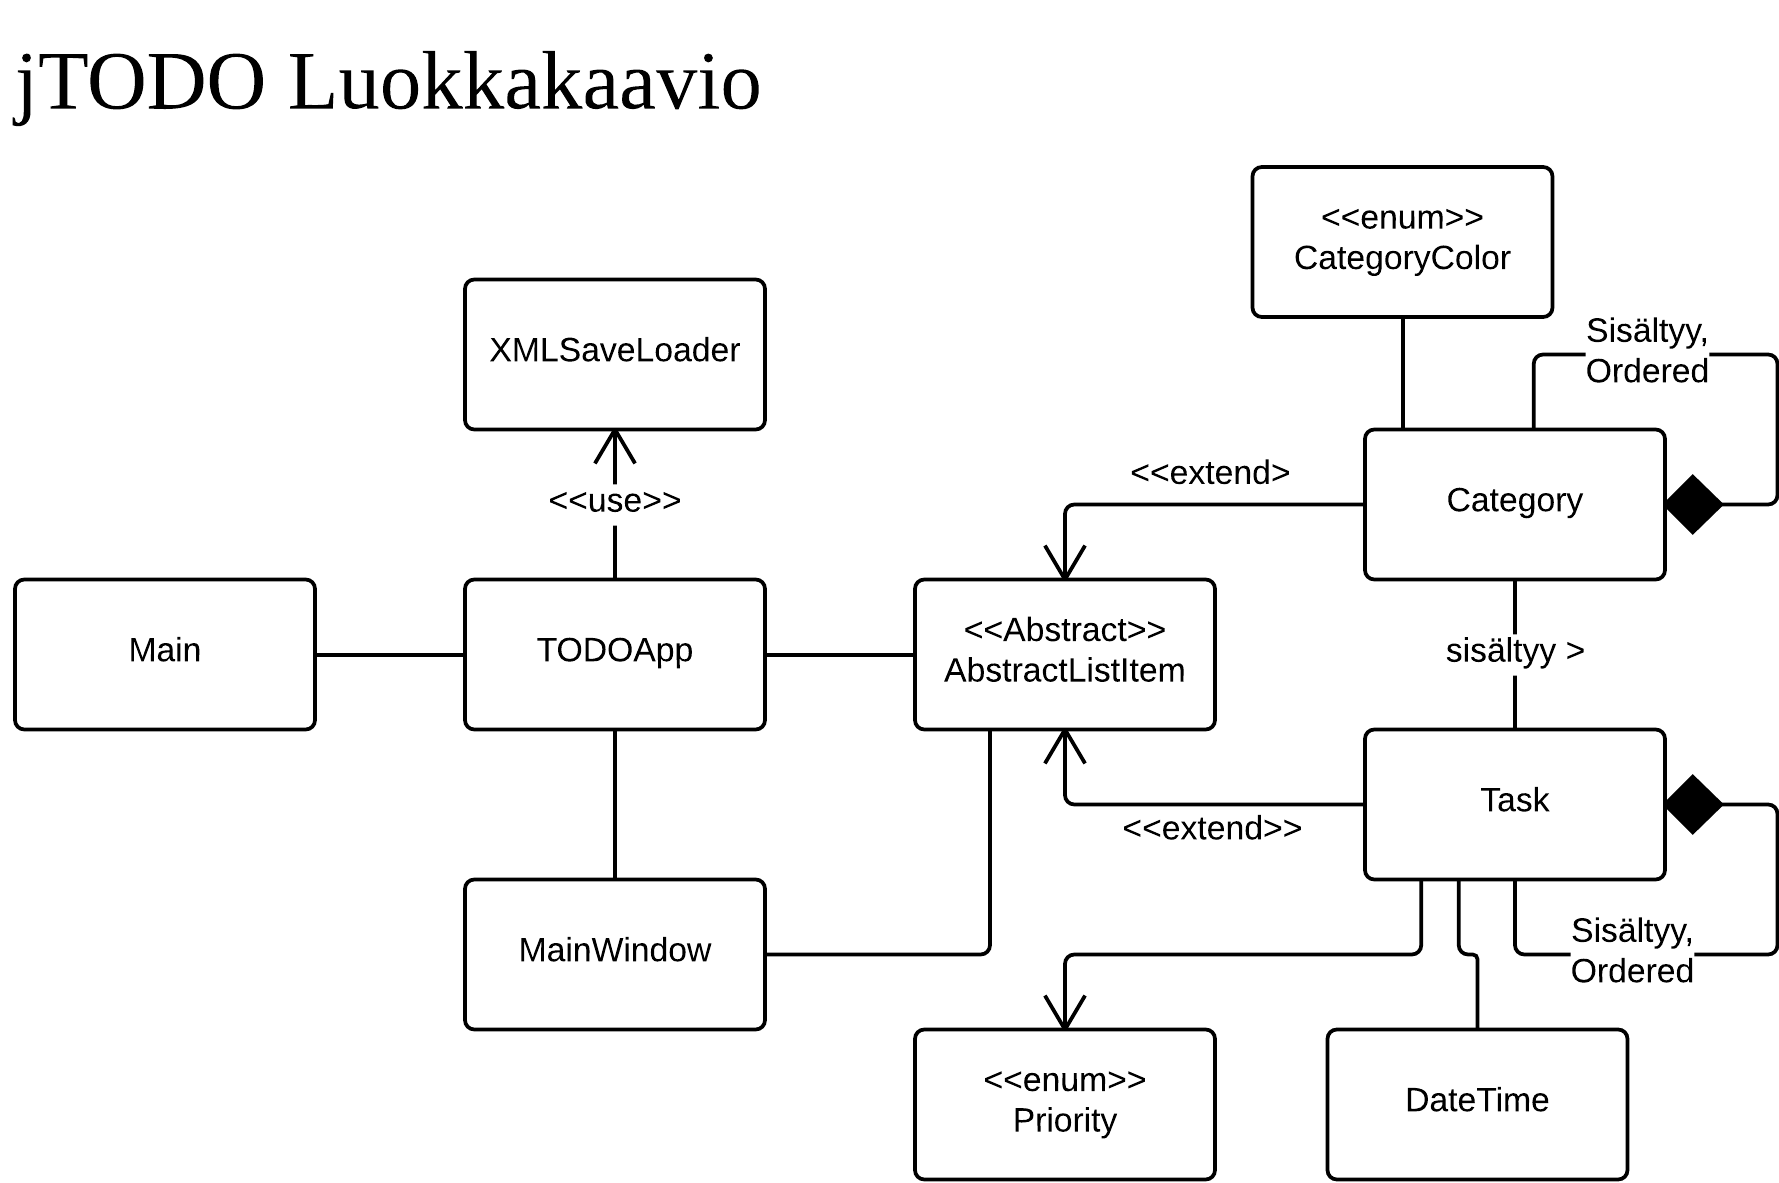
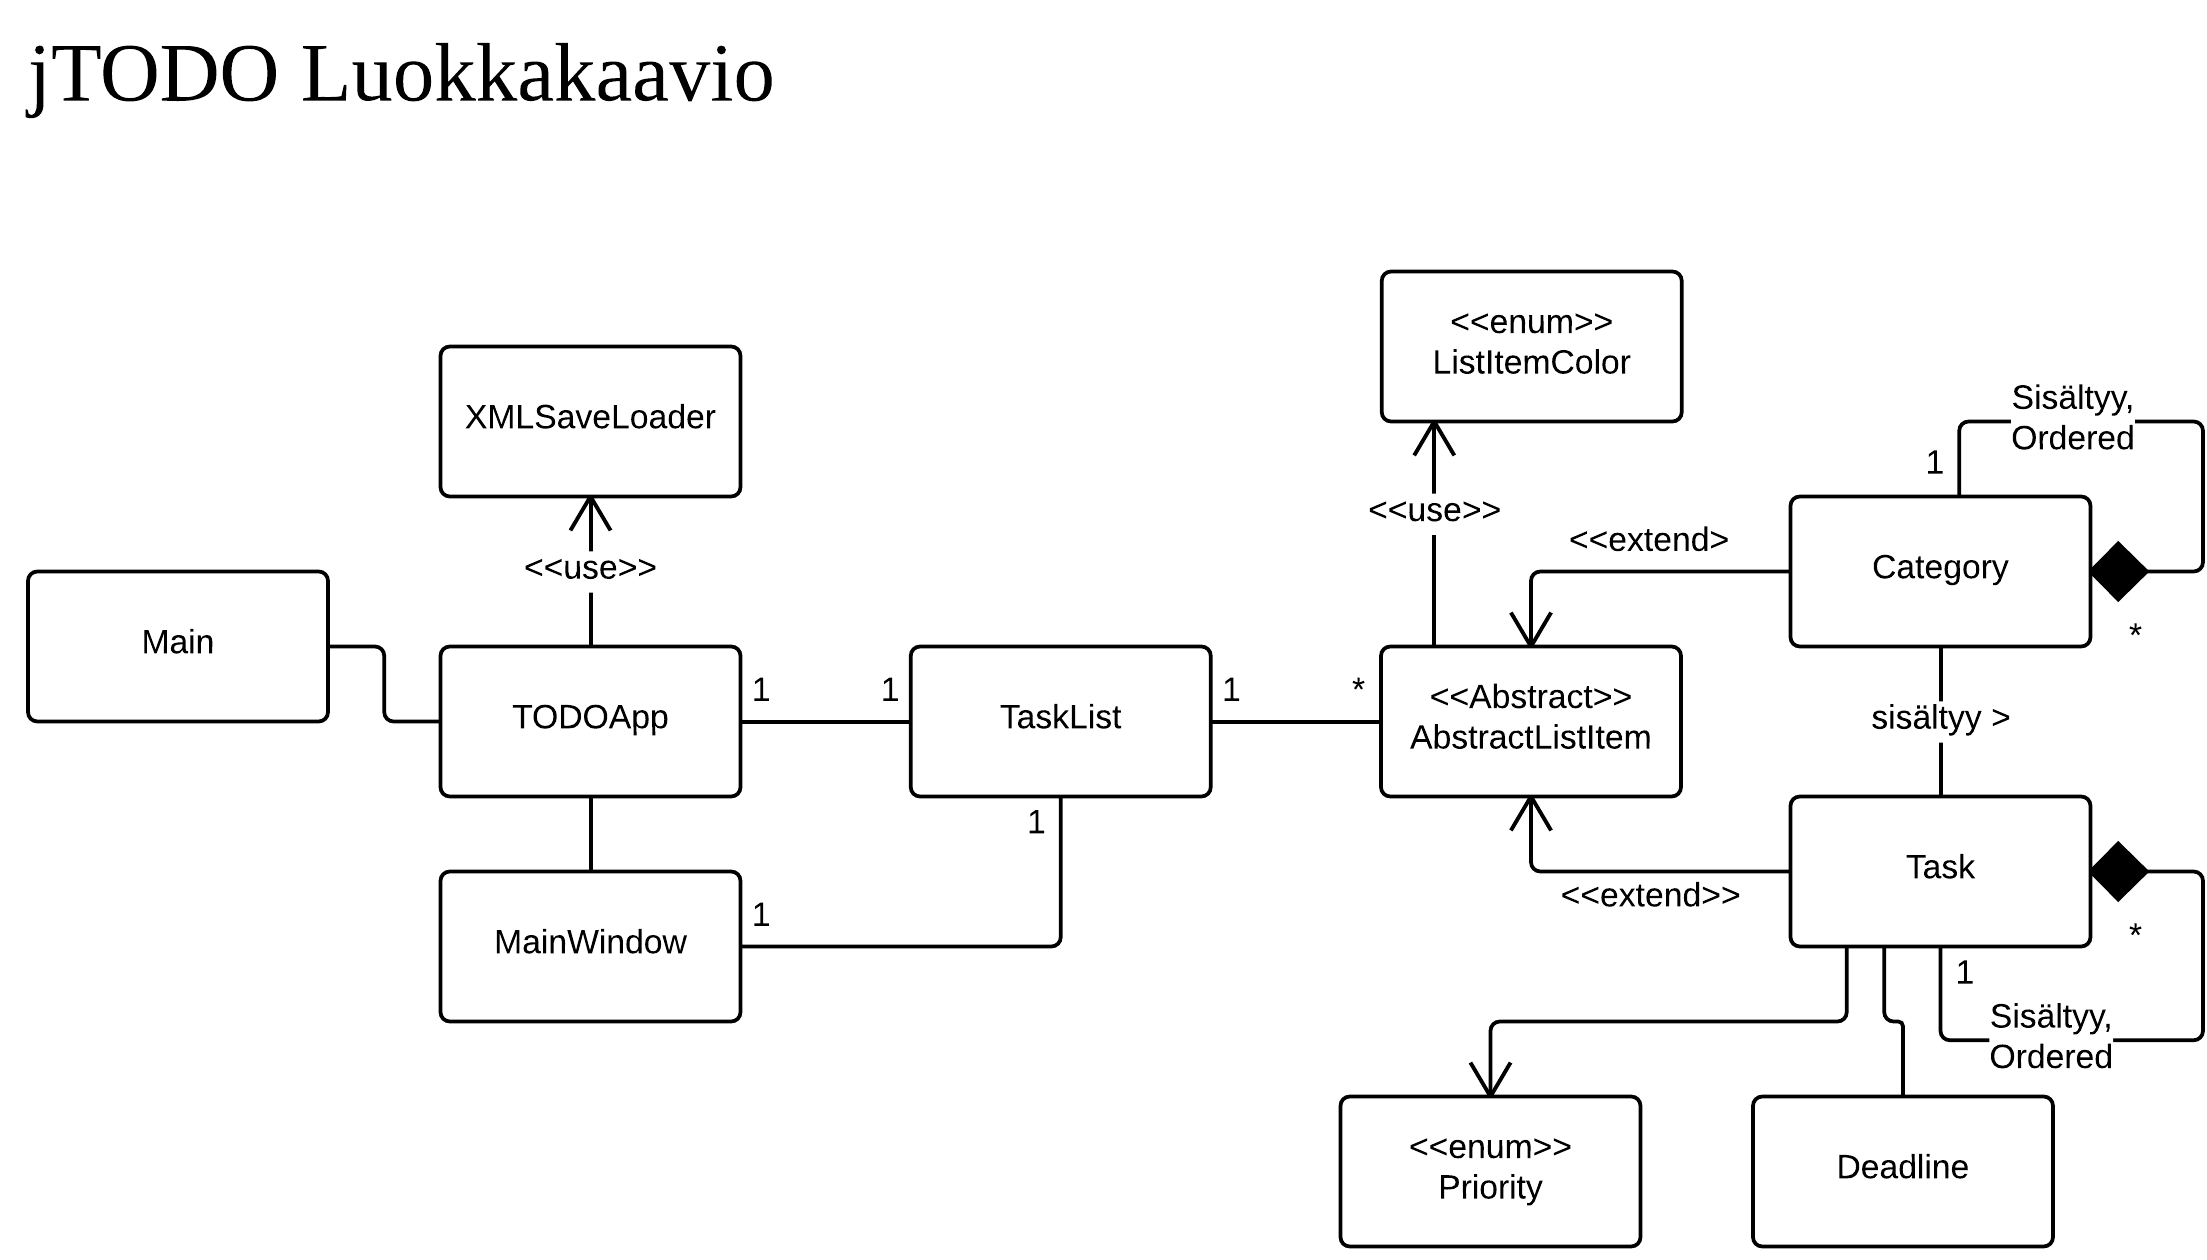
Pitreport, pari korjausta testeihin, luokkakaavio

diff --git a/jTODO/src/test/java/jtodo/domain/DeadlineTest.java b/jTODO/src/test/java/jtodo/domain/DeadlineTest.java
@@ -6,6 +6,7 @@
 package jtodo.domain;
 
 import org.joda.time.DateTime;
+import org.joda.time.format.DateTimeFormat;
 import org.junit.*;
 import static org.junit.Assert.assertFalse;
 import static org.junit.Assert.assertTrue;
@@ -25,11 +26,10 @@ public class DeadlineTest {
 
     @Before
     public void setUp() {
-        // 2 weeks and 1 day in the future
-        future = new Deadline(new DateTime().plusWeeks(2).plusDays(1));
-
-        // 1 hour ago
-        past = new Deadline(new DateTime().minusHours(1));
+        org.joda.time.format.DateTimeFormatter formatter;
+        formatter = DateTimeFormat.forPattern("dd.MM.YYYY HH:mm");
+        future = new Deadline(formatter.parseDateTime("01.01.2099 12:12"));
+        past = new Deadline(formatter.parseDateTime("01.01.1999 12:12"));
 
         // Not active
         disabled = new Deadline();
@@ -85,9 +85,11 @@ public class DeadlineTest {
 
     @Test
     public void testToString() {
+        System.out.println("Eka: "+ disabled.toString());
+        System.out.println("Toka: "+ future.toString());
         assertTrue(
-                disabled.toString().equals("None")
-                &&future.toString().equals(future.getDateTime().toString())
+                disabled.toString().contains("None")
+                &&future.toString().contains("01.01.2099 12:12")
         );
     }
 
@@ -96,10 +98,10 @@ public class DeadlineTest {
         assertTrue(future.hashCode()!=past.hashCode()
                 &&future.hashCode()==future.hashCode());
     }
-    
+
     @Test
     public void testEquals() {
-        assertTrue(future.equals(future) == true);
+        assertTrue(future.equals(future)==true);
     }
 
 }

diff --git a/jTODO/src/test/java/jtodo/domain/AbstractListItemTest.java b/jTODO/src/test/java/jtodo/domain/AbstractListItemTest.java
@@ -44,16 +44,6 @@ public class AbstractListItemTest {
         listItem = null;
     }
     
-    private String getTooLongString(int length) {
-        StringBuilder sb = new StringBuilder();
-        
-        for(int i = 0; i<length; i++) {
-            sb.append("a");
-        }
-        
-        return sb.toString();
-    }
-
     @Test
     public void testGetName() {
         assertTrue(listItem.getName().contains("Test Name"));
@@ -94,9 +84,6 @@ public class AbstractListItemTest {
 
     }
 
-    /**
-     * Attempts to add an item with 1000 characters long name.
-     */
     @Test
     public void testSetTooLongName() {
         try {
@@ -304,6 +291,16 @@ public class AbstractListItemTest {
     @Test
     public void testNotEqualNull() {
         assertFalse(listItem.equals(null));
+    }
+    
+    private String getTooLongString(int length) {
+        StringBuilder sb = new StringBuilder();
+        
+        for(int i = 0; i<length; i++) {
+            sb.append("a");
+        }
+        
+        return sb.toString();
     }
 
 }

diff --git a/jTODO/src/test/java/jtodo/domain/CategoryTest.java b/jTODO/src/test/java/jtodo/domain/CategoryTest.java
@@ -30,7 +30,7 @@ public class CategoryTest {
             Category category = new Category("Name", "Description");
             
             assertTrue(category.getName().equals("Name")
-                    &&category.getName().equals("Description")
+                    &&category.getDescription().equals("Description")
             );
             
         } catch(TooShortInputException|TooLongInputException ex) {

diff --git a/dokumentointi/tuntiKirjanpito.md b/dokumentointi/tuntiKirjanpito.md
@@ -7,3 +7,4 @@
 | 22.01.2015    | Luokkakaavio ja pohjat luokille | 2h |
 | 23.01.2015    | Sekalaisia lisäyksiä, jatkettu luokkia | 2h |
 | 27.01.2015    | Unit testejä, Pari uutta exceptionia | 5h |
+| 29.01.2015    | Pit-raportti, testejä korjattu, luokkakaavio | 1h |
